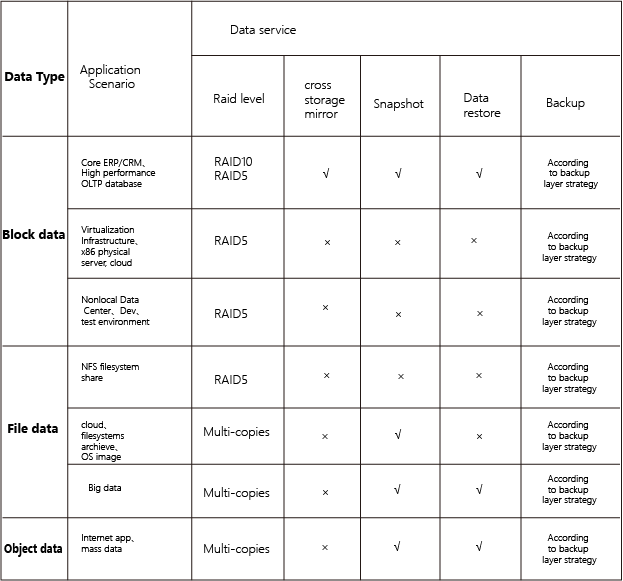
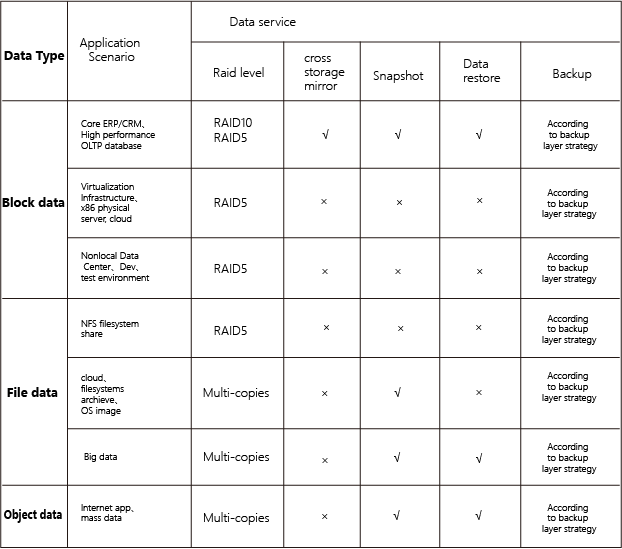
html css img

Changed region(s): [[0.0, 0.0, 1.0, 1.0], [0.7637, 0.5264, 0.7942, 0.5574], [0.6109, 0.4026, 0.6415, 0.4335]]

diff --git a/iaas.html b/iaas.html
@@ -284,7 +284,7 @@
                      
                 </li>
                 <li>
-                 <a href="xpo@lenovo.com" target="_blank">Contact us</a>                    
+                 <a href="mailto:"+email target="_blank">Contact us</a>                    
                 </li>
                 
             </ul>
@@ -297,7 +297,9 @@
                     <img src="images/hr.png" alt="" class="hr">
                     <ul class="cen_dea">
                         <li>
+
                             Infrastructure as a Service (IaaS) is a platform that provides variety kinds of virtualized and physical infrastructure resources and solution above, according to different application features and requirements.
+                          
                         </li>
                           <li>
                             IaaS is capable of fast delivery and quick response to business, 7*24 supports on server maintenance, highly secured storage and backup approach, and customized services.
@@ -311,9 +313,12 @@
                         <img src="images/iaasleft.png" alt="">Infrastructure Resources
                     </p>
                     <img src="images/hr.png" alt="" class="hr">
-                    <p class="cen_dea">
-                        Infrastructure resources include compute resources such as Virtual Machines which are provided based on VMware, Openstack, Hyper-v and Power platforms, and X86/Power Physical Machines with Operating systems (Linux, Windows and AIX). The facilities also include storage resources which can be provided according to different data type.
-                    </p>
+                    <ul class="cen_dea">
+                        <li>
+                           Infrastructure resources include compute resources such as Virtual Machines which are provided based on VMware, Openstack, Hyper-v and Power platforms, and X86/Power Physical Machines with Operating systems (Linux, Windows and AIX). The facilities also include storage resources which can be provided according to different data type.  
+                        </li>
+                       
+                    </ul>
                     
                     <img src="images/table.png" alt="" class="cen_img">
                 </div>

diff --git a/css/detail.css b/css/detail.css
@@ -403,7 +403,7 @@ button{
 	clear: both;
 }
 .center_ul{
-	width:200px;
+	width:220px;
 	height:200px;
 	float: left;
 	margin-top:52px;
@@ -462,9 +462,15 @@ button{
 .cen_dea{
 	margin-top: 25px;
 }
+.cen_dea li{
+	list-style-image: url(../images/list.png) ;
+	list-style-position: inside;
+	margin-top: 10px;
+	line-height: 20px;
+}
 .cen_img{
 	width:100%;
-	height:560px;
+	height:520px;
 	margin-top: 30px;
 	box-shadow: 0 5px 9px #ccc;
 }
